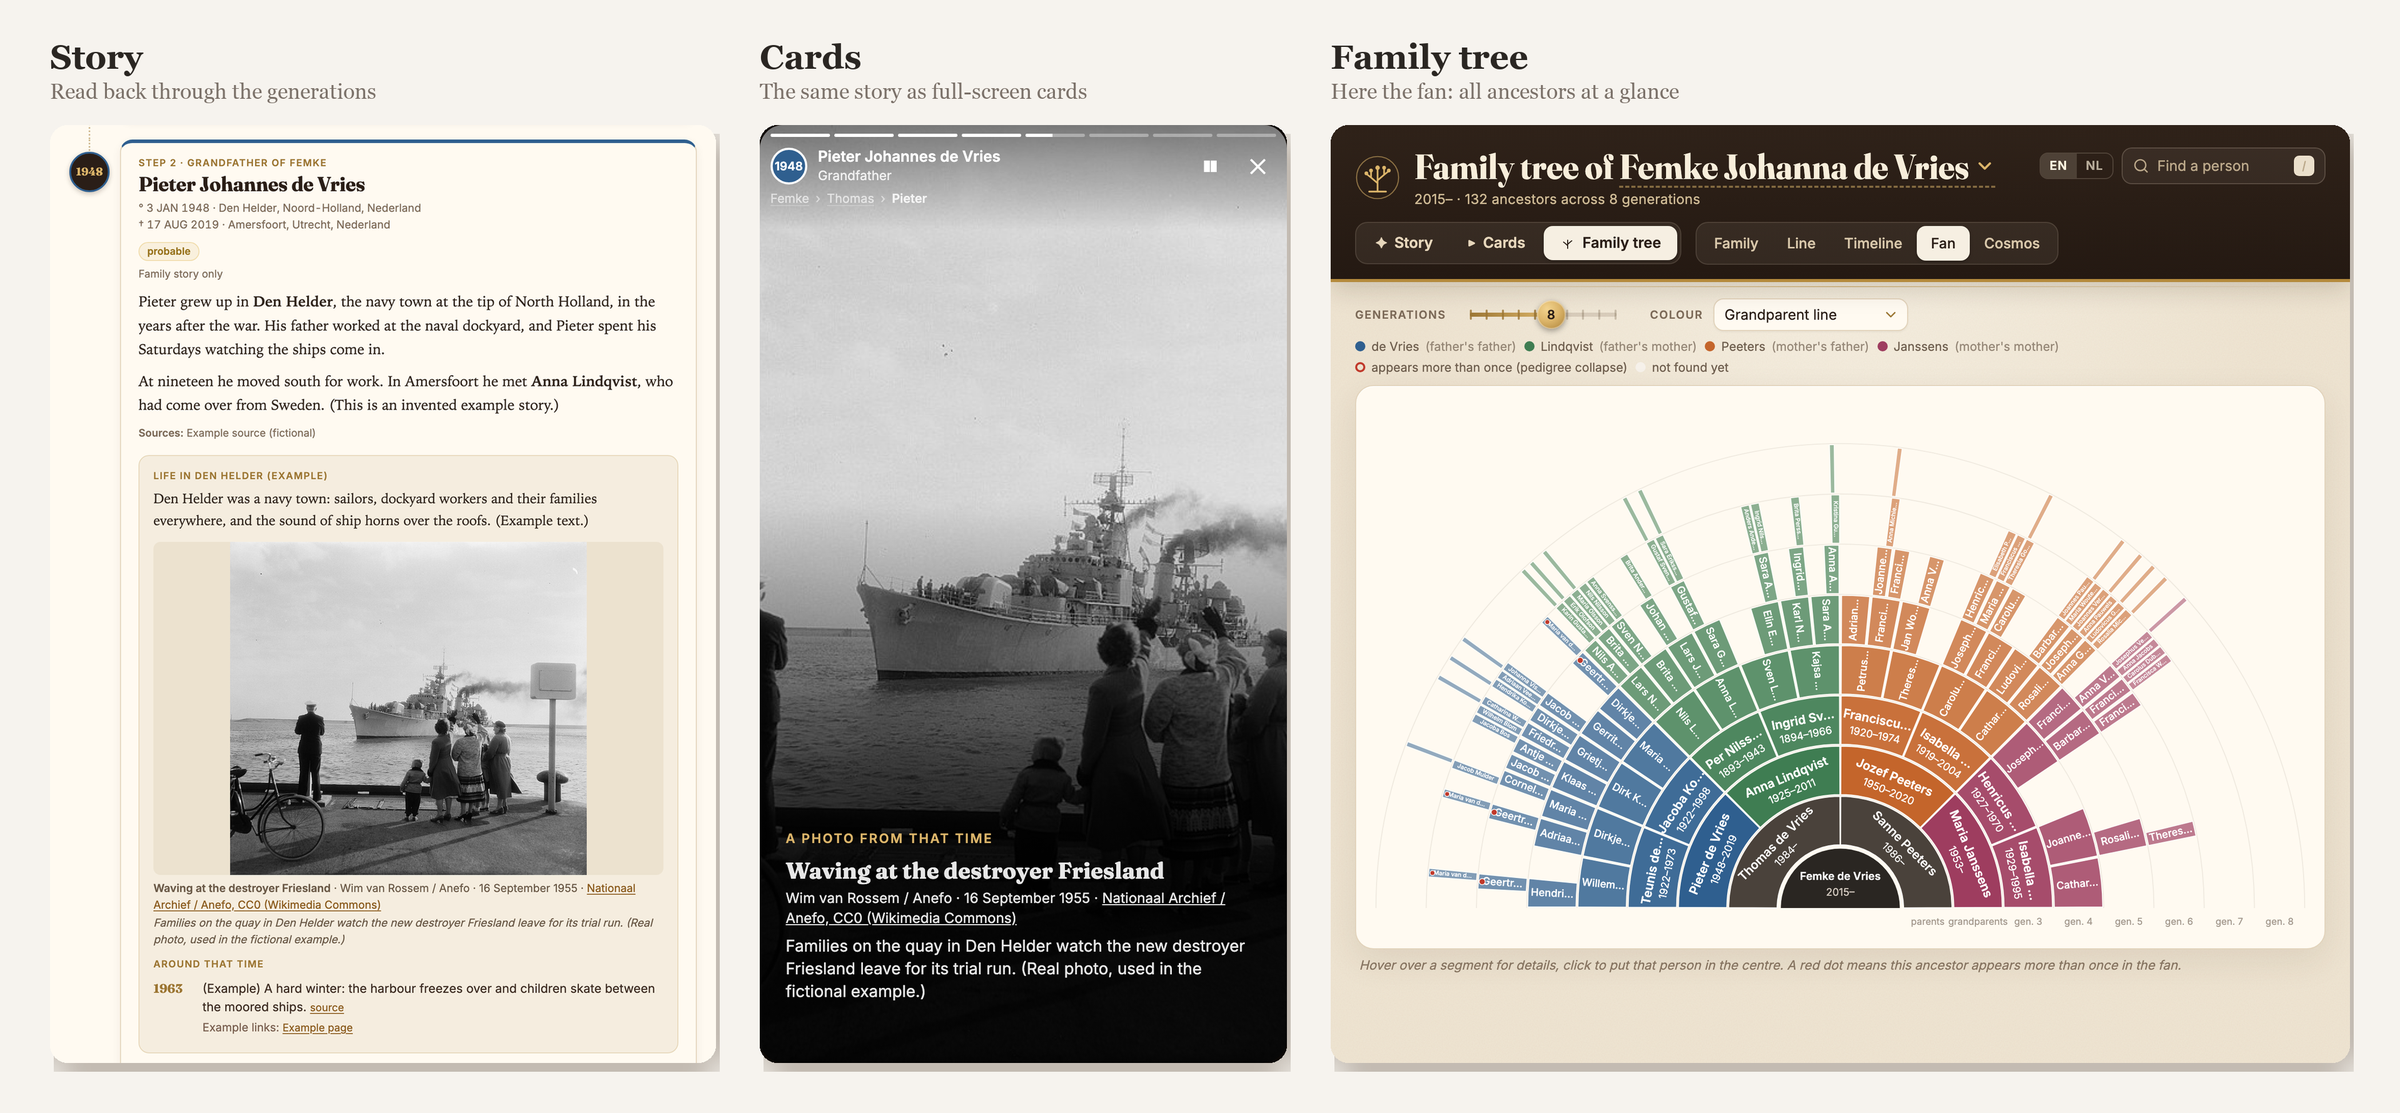
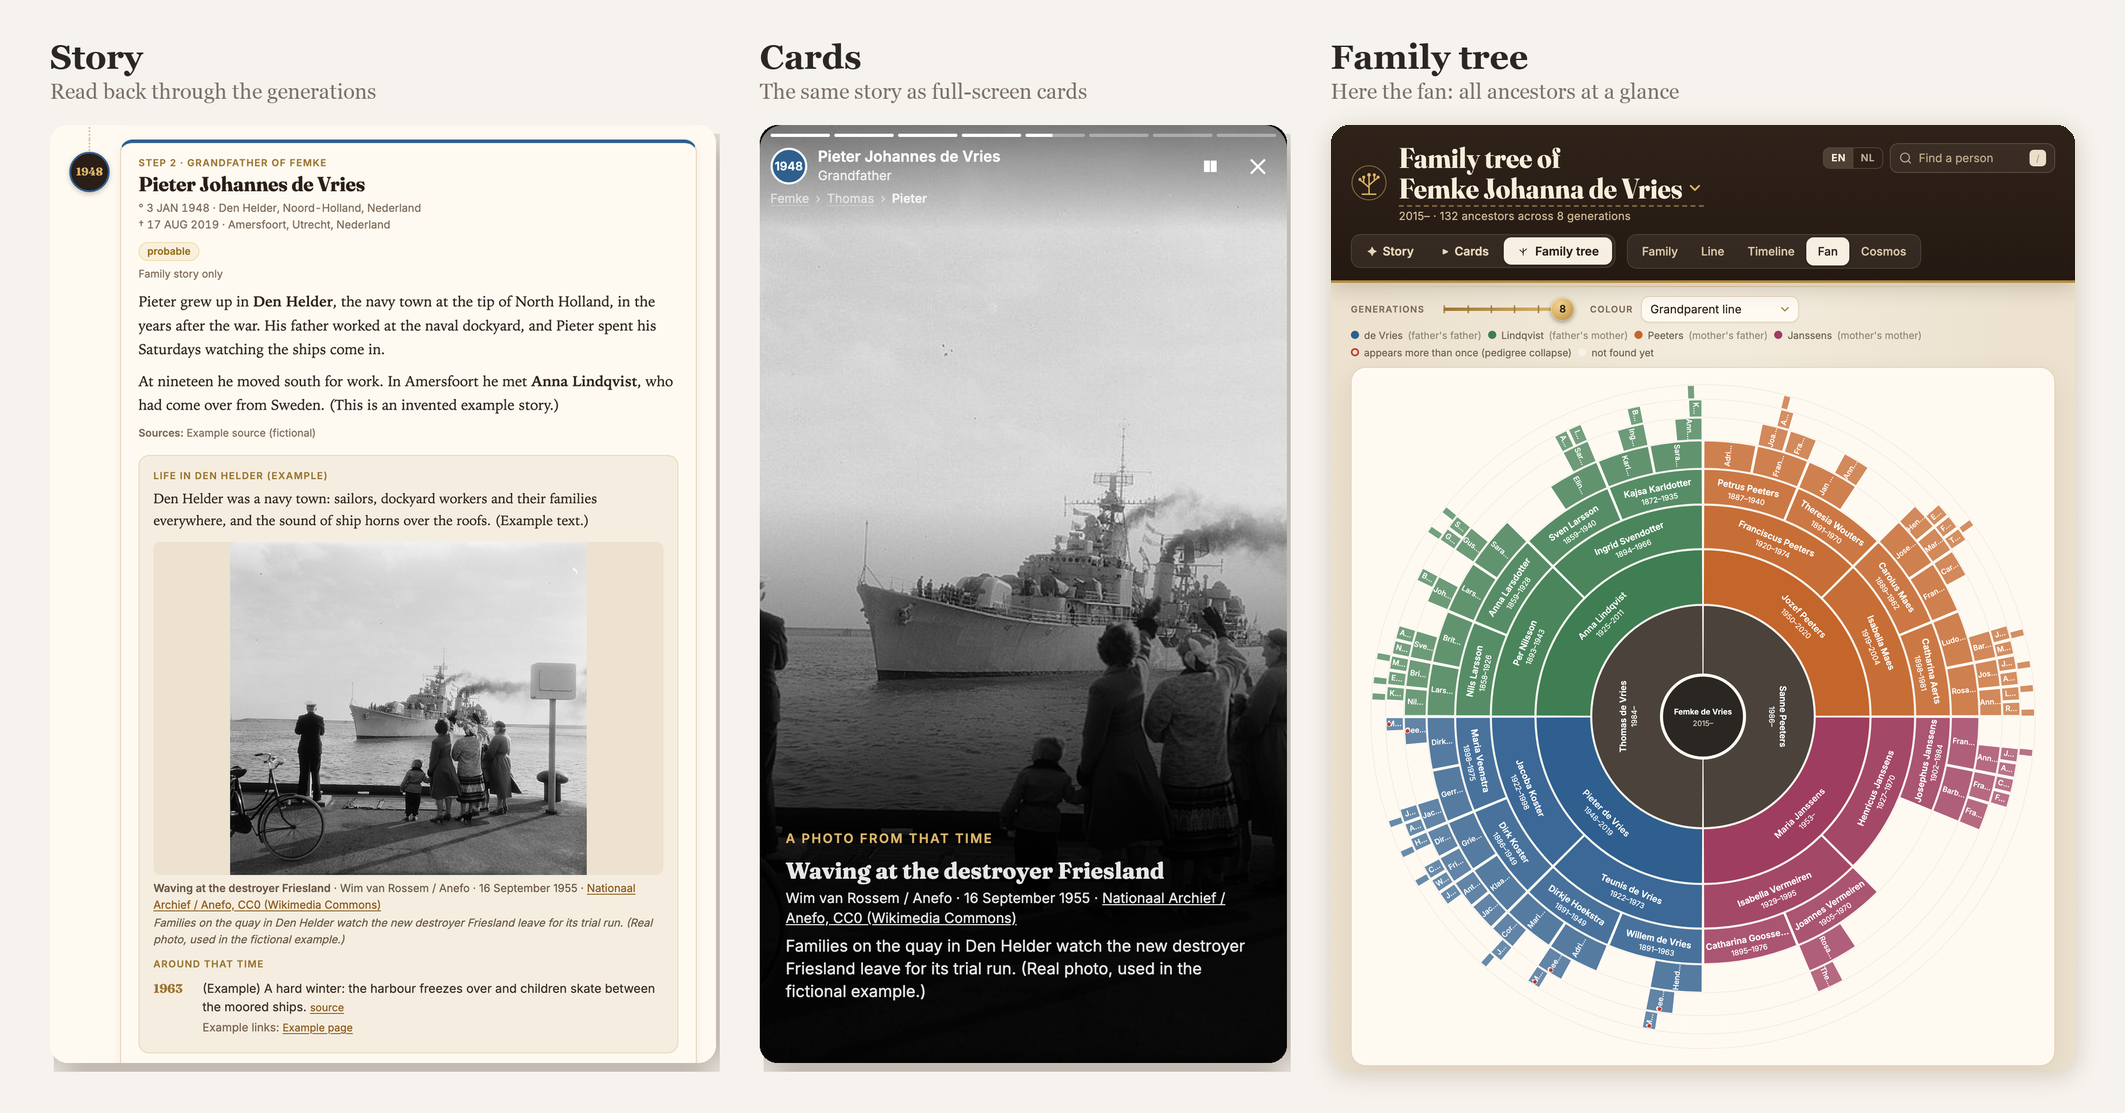
0.9.55: the Fan is round
The start person in the middle, father's side left, mother's side right;
every ring 0.8 x the one inside it; text in the lower half turned
upright; at most 82vh high. Segments are 2-3x as wide on a phone and
about 1.3-1.5x on a desktop. The half fan and its ring labels are gone.
README screenshot updated.

diff --git a/plugins/family-tree-research/skills/family-tree/viewer/index.html b/plugins/family-tree-research/skills/family-tree/viewer/index.html
@@ -343,6 +343,7 @@ main{padding-top:6px}
 .linebar .lb-x{border:1px solid #cdb78f;background:#fffaf1;color:#5b4632}.linebar .lb-x:hover{background:#fff}
 .linebar button:focus-visible{outline:2px solid #c9a04a;outline-offset:2px}
 @media (max-width:560px){.linebar{padding:10px 12px}.linebar .lb-b{width:100%}.linebar .lb-b button{flex:1;justify-content:center}}
+.fanr{display:block;margin:0 auto;max-width:100%;max-height:82vh}
 .ln-dim{opacity:.22;transition:opacity .25s}svg.ln-dim{opacity:.32}.slc.ln-dim,.fc.ln-dim{opacity:.35}
 /* kaarten */
 .fc,.slc{background:var(--paper);border-left-color:#e0d0b6;border-right-color:#e0d0b6;border-bottom-color:#e0d0b6;box-shadow:var(--shadow-card);border-radius:10px}
@@ -743,7 +744,7 @@ nl:{loading:"Stamboom laden…",loadError:"Kon de stamboom niet laden ({msg}).",
  l_vv:"vaders vader",l_vm:"vaders moeder",l_mv:"moeders vader",l_mm:"moeders moeder",unknown:"Onbekend",unknownL:"onbekend",notAssessed:"Geen beoordeling",
  cert_zeker:"Zeker",cert_waarschijnlijk:"Waarschijnlijk",cert_mogelijk:"Mogelijk",cert_onbekend:"Onbekend / niet onderzocht",cert_fout:"Fout gevonden",cert_niet:"Niet gecheckt",
  before1600:"vóór 1600",tipClick:"Klik voor meer over deze persoon",readStory:"Lees het verhaal",relChildTip:"Relatie met kind: ",occursFan:"Komt {n}× voor in deze waaier",
- fanParents:"ouders",fanGrand:"grootouders",fanGen:"{n}e gen.",lg_dup:"komt vaker voor (kwartierverlies)",lg_inlaw:"aangetrouwd",lg_missing:"nog niet gevonden",
+ lg_dup:"komt vaker voor (kwartierverlies)",lg_inlaw:"aangetrouwd",lg_missing:"nog niet gevonden",
  hint_waaier:"Beweeg over een vak voor details, klik om die persoon in het midden te zetten. Een rood stipje betekent dat deze voorouder meerdere keren in de waaier staat.",
  hint_kosmos:"Grote stippen zijn directe voorouders, kleine stippen hun andere nakomelingen (ooms, tantes, neven, nichten). Beweeg over een stip om de directe familie te zien.",
  hint_tijdlijn:"Iedereen staat op de hoogte van zijn of haar geboortejaar. Scrollen = zoomen, slepen = verplaatsen; klik op een naam voor details, het pad naar de startpersoon en de telling per generatie.",genAboveTitle:"{gens} erboven — toon ouders",
@@ -770,7 +771,7 @@ en:{loading:"Loading family tree…",loadError:"Could not load the family tree (
  l_vv:"father's father",l_vm:"father's mother",l_mv:"mother's father",l_mm:"mother's mother",unknown:"Unknown",unknownL:"unknown",notAssessed:"Not assessed",
  cert_zeker:"Certain",cert_waarschijnlijk:"Probable",cert_mogelijk:"Possible",cert_onbekend:"Unknown / not researched",cert_fout:"Error found",cert_niet:"Not checked",
  before1600:"before 1600",tipClick:"Click for more about this person",readStory:"Read the story",relChildTip:"Relation to child: ",occursFan:"Appears {n}× in this fan",
- fanParents:"parents",fanGrand:"grandparents",fanGen:"gen. {n}",lg_dup:"appears more than once (pedigree collapse)",lg_inlaw:"related by marriage",lg_missing:"not found yet",
+ lg_dup:"appears more than once (pedigree collapse)",lg_inlaw:"related by marriage",lg_missing:"not found yet",
  hint_waaier:"Hover over a segment for details, click to put that person in the centre. A red dot means this ancestor appears more than once in the fan.",
  hint_kosmos:"Large dots are direct ancestors, small dots their other descendants (uncles, aunts, cousins). Hover over a dot to see the immediate family.",
  hint_tijdlijn:"Everyone is placed at the height of their birth year. Scroll to zoom, drag to move; click a name for details, the path to the start person and counts per generation.",genAboveTitle:"{gens} above — show parents",
@@ -790,7 +791,7 @@ en:{loading:"Loading family tree…",loadError:"Could not load the family tree (
  notFound:"Not found yet",emptyTitle:"Not found yet",emptyBody:"No parents have been found for {name} yet. Once parents are in the tree, there is more to see here.",emptyPeople:"This tree has no people yet."}};
 let LANG="en";
 /* plugin version, shown in the footer; bump together with plugin.json and SKILL.md (see CLAUDE.md, "Releasing") */
-const PLUGIN_VERSION="0.9.54",PLUGIN_URL="https://github.com/chriswaalberg/family-tree-research";
+const PLUGIN_VERSION="0.9.55",PLUGIN_URL="https://github.com/chriswaalberg/family-tree-research";
 function _t(k,v){let s=(I18N[LANG]&&I18N[LANG][k]!=null)?I18N[LANG][k]:(I18N.nl[k]!=null?I18N.nl[k]:k);if(v)for(const x in v)s=s.split("{"+x+"}").join(v[x]);return s}
 function lab(x){if(x==null)return"";if(typeof x==="string")return x;return x[LANG]||x.nl||x.en||Object.values(x)[0]||""}
 const GEN_NL=["","Ouders","Grootouders","Overgrootouders","Betovergrootouders","Oudouders","Oudgrootouders","Oudovergrootouders","Oudbetovergrootouders","Stamouders","Stamgrootouders","Stamovergrootouders","Stambetovergrootouders","Edelouders","Edelgrootouders","Edelovergrootouders","Edelbetovergrootouders"];
@@ -898,8 +899,11 @@ function drawFan(){
   const G=Math.max(2,Math.min(state.gens,depthOf(root,0)+1));
   /* the Story line goes on past the slider's generations (only the line); GR = rings drawn */
   const GR=LN?Math.max(G,LN.path.length-1):G,lnPts=[];
-  const W=1000,cx=500,cy=540,r0=66,Rmax=492,ring=(Rmax-r0)/GR;
-  const svg=el("svg",{viewBox:`0 0 ${W} 570`});
+  /* a round fan: the start person in the middle, father's side left, mother's side right; every ring 0.8 × the one inside it,
+     so the inner generations (the names you read most) get the most room and deep ones still fit */
+  const cx=500,cy=500,r0=62,Rmax=490,Q=.8,w0=(Rmax-r0)*(1-Q)/(1-Math.pow(Q,GR));
+  const RI=g=>r0+w0*(1-Math.pow(Q,g-1))/(1-Q),RO=g=>RI(g)+w0*Math.pow(Q,g-1);
+  const svg=el("svg",{viewBox:"0 0 1000 1000",class:"fanr"});
   const AD=adoptSet(root);if(AD.size){const df=el("defs",{},svg),pt=el("pattern",{id:"adoptHatch",width:7,height:7,patternUnits:"userSpaceOnUse",patternTransform:"rotate(45)"},df);el("rect",{width:7,height:7,fill:"rgba(255,250,241,.18)"},pt);el("line",{x1:0,y1:0,x2:0,y2:7,stroke:"#fffaf1","stroke-width":2.2,"stroke-opacity":.55},pt)}
   const stats=ancestorStats(root);
   // count occurrences within G gens
@@ -914,12 +918,12 @@ function drawFan(){
     if(mode==="zekerheid"){if(child==null)return"#4a423b";const c=certOf(child,i);return c?(CERT[c[0]]||NONE):NONE}
   }
   function seg(i,g,a0,a1,slot,child){
-    const ri=r0+(g-1)*ring,ro=ri+ring,s0=gSeg.childNodes.length,t0=gTxt.childNodes.length;
+    const ri=RI(g),ro=RO(g),rw=ro-ri,s0=gSeg.childNodes.length,t0=gTxt.childNodes.length;
     if(g===0){
-      const rr=r0-3;const c=el("path",{d:`M${cx-rr},${cy}A${rr},${rr} 0 0 1 ${cx+rr},${cy}Z`,fill:"#2a2622",class:"seg"},gSeg);
+      const c=el("circle",{cx,cy,r:r0-3,fill:"#2a2622",class:"seg"},gSeg);
       hook(c,i,null);
-      const t=el("text",{x:cx,y:cy-30,"text-anchor":"middle",fill:"#fff","font-size":11.5,"font-weight":600},gTxt);t.textContent=short(P[i]);
-      const t2=el("text",{x:cx,y:cy-13,"text-anchor":"middle",fill:"#cfc6bc","font-size":11},gTxt);t2.textContent=yrs(P[i]);
+      const t=el("text",{x:cx,y:cy-3,"text-anchor":"middle",fill:"#fff","font-size":11.5,"font-weight":600},gTxt);t.textContent=short(P[i]);
+      const t2=el("text",{x:cx,y:cy+14,"text-anchor":"middle",fill:"#cfc6bc","font-size":11},gTxt);t2.textContent=yrs(P[i]);
     }else{
       const pad=Math.min(0.004,(a1-a0)*0.08);const b0=a0+pad,b1=a1-pad;
       const [x0,y0]=pol(b0,ri+1),[x1,y1]=pol(b1,ri+1),[x2,y2]=pol(b1,ro-1),[x3,y3]=pol(b0,ro-1);
@@ -935,16 +939,17 @@ function drawFan(){
       // labels
       const am=(a0+a1)/2,rm=(ri+ro)/2,arc=rm*(a1-a0);if(LN&&LN.pre.has(slot))lnPts.push({am,rm,arc,g});
       const light=isLight(col);const tc=light?"#2a2622":"#fff";
-      if(arc>78&&ring>30){
-        const fs=Math.min(13,ring/3.4);const maxc=Math.floor(arc/(fs*0.58));
-        const rot=am*180/Math.PI+90;
+      const fl=Math.sin(am)>0.05; /* lower half: turn the text so it never stands on its head */
+      if(arc>78&&rw>30){
+        const fs=Math.min(13,rw/3.4);const maxc=Math.floor(arc/(fs*0.58));
+        const rot=am*180/Math.PI+90+(fl?180:0);
         [[short(P[i]),-fs*0.25,600],[yrs(P[i]),fs*1.0,400]].forEach(([s,dy,w])=>{
-          const [tx,ty]=pol(am,rm-dy);
+          const [tx,ty]=pol(am,rm-(fl?-dy:dy));
           const t=el("text",{x:tx,y:ty,"text-anchor":"middle","dominant-baseline":"middle",transform:`rotate(${rot} ${tx} ${ty})`,fill:tc,"font-size":w===600?fs:fs*0.85,"font-weight":w},gTxt);
           t.textContent=s.length>maxc?s.slice(0,maxc-1)+"…":s;});
-      }else if(arc>7.5&&ring>26){
-        const fs=Math.min(11,arc*0.62);const maxc=Math.floor((ring-8)/(fs*0.58));
-        let deg=am*180/Math.PI;const flip=am<1.5*Math.PI;if(flip)deg+=180;
+      }else if(arc>7.5&&rw>26){
+        const fs=Math.min(11,arc*0.62);const maxc=Math.floor((rw-8)/(fs*0.58));
+        let deg=am*180/Math.PI;const flip=Math.cos(am)<0;if(flip)deg+=180;
         const [tx,ty]=pol(am,rm);
         const s=short(P[i]);
         const t=el("text",{x:tx,y:ty,"text-anchor":"middle","dominant-baseline":"middle",transform:`rotate(${deg} ${tx} ${ty})`,fill:tc,"font-size":fs,"font-weight":500},gTxt);
@@ -959,15 +964,13 @@ function drawFan(){
     if(p.m>=0){if(on("m"))seg(p.m,g+1,mid,a1,slot+"m",i)}else if(g+1<=3)ghost(g+1,mid,a1);
   }
   // empty guide rings
-  for(let g=1;g<=GR;g++){const ri=r0+(g-1)*ring,ro=ri+ring;const [x0,y0]=pol(Math.PI,ro),[x1,y1]=pol(2*Math.PI,ro);
-    el("path",{d:`M${x0},${y0}A${ro},${ro} 0 0 1 ${x1},${y1}`,fill:"none",stroke:"#efe9df"},gSeg);
-    const t=el("text",{x:cx+ri+ring/2,y:cy+18,"text-anchor":"middle",fill:"#a59a8f","font-size":10},svg);t.textContent=g===1?_t("fanParents"):g===2?_t("fanGrand"):_t("fanGen",{n:g});}
-  seg(root,0,Math.PI,2*Math.PI,"",null);
+  for(let g=1;g<=GR;g++)el("circle",{cx,cy,r:RO(g),fill:"none",stroke:"#efe9df"},gSeg);
+  seg(root,0,Math.PI/2,Math.PI*2.5,"",null); /* father: from the bottom via the left to the top; mother: the right half */
   /* deep in the fan the line's slices get thinner than a pixel: a thin line with dots through them, from the last slice you can still see */
   {lnPts.sort((a,b)=>a.g-b.g);const k=lnPts.findIndex(q=>q.arc<14);if(k>=0){const pts=lnPts.slice(Math.max(0,k-1)).map(q=>pol(q.am,q.rm));
     el("polyline",{points:pts.map(q=>q.join(",")).join(" "),fill:"none",stroke:"#2a2622","stroke-width":1.6,"stroke-linejoin":"round",opacity:.85},gTxt);
     pts.slice(1).forEach(([x,y])=>el("circle",{cx:x,cy:y,r:2.6,fill:"#2a2622",stroke:"#fffdf9","stroke-width":1},gTxt))}}
-  function ghost(g,a0,a1){const ri=r0+(g-1)*ring,ro=ri+ring,pad=Math.min(0.004,(a1-a0)*0.08),b0=a0+pad,b1=a1-pad;
+  function ghost(g,a0,a1){const ri=RI(g),ro=RO(g),ring=ro-ri,pad=Math.min(0.004,(a1-a0)*0.08),b0=a0+pad,b1=a1-pad;
     const [x0,y0]=pol(b0,ri+1),[x1,y1]=pol(b1,ri+1),[x2,y2]=pol(b1,ro-1),[x3,y3]=pol(b0,ro-1);
     el("path",{d:`M${x0},${y0}A${ri+1},${ri+1} 0 0 1 ${x1},${y1}L${x2},${y2}A${ro-1},${ro-1} 0 0 0 ${x3},${y3}Z`,fill:"#f6f1ea",stroke:"#d9cfc2","stroke-dasharray":"3 3"},gSeg);
     const am=(a0+a1)/2,rm=(ri+ro)/2,arc=rm*(a1-a0);if(arc>70&&ring>26){const [tx,ty]=pol(am,rm);const tt=el("text",{x:tx,y:ty,"text-anchor":"middle","dominant-baseline":"middle",transform:`rotate(${am*180/Math.PI+90} ${tx} ${ty})`,fill:"#b3a89c","font-size":Math.min(12,ring/3.4)},gTxt);tt.textContent=_t("notFound")}}

diff --git a/CHANGELOG.md b/CHANGELOG.md
@@ -2,6 +2,8 @@
 
 One line per version from 0.9.38 on; older versions are in the git history (`git log --oneline`).
 
+- **0.9.55** — The Fan is round: the start person in the middle, father's side left, mother's side right, every ring 0.8 × the one inside it, text in the lower half turned upright. On a phone the segments are two to three times as wide as in the half fan, on a desktop about 1.3 to 1.5 times. The README screenshot shows the round fan.
+- **0.9.48–0.9.54** — Research tools from another session: `archives.py` (open archives without a browser, OA scans), rebuilding the tree from the original plus round files with fixed ids, stricter evidence rules; see `git log`.
 - **0.9.47** — The generations slider goes as far as the start person's tree is deep (no fixed 12/14 any more), for Fan, Cosmos and Timeline. Fix: with the line off, an empty bar stood above every tree view since 0.9.43.
 - **0.9.46** — The Story line is shown whole in every tree view, also when it is longer than the generations slider allows (Timeline 14, Fan/Cosmos 12): past the slider only the line goes on. In Fan a thin line with dots follows the line where its slices get thinner than a pixel; Timeline zooms and scrolls so the whole line fits.
 - **0.9.45** — A person's portrait stands as a polaroid at the top right of their block in Story (square corners, wide white bottom with the photo's title, a slight tilt; above the name on phones); other photos and documents stay small. Which photo: `_PRIM Y` in the GEDCOM (from Ancestry/FTM/RootsMagic, or the new `portrait` column of media.csv via `gedcom_tool.py media`), else the first photo. Cards uses the same portrait.

diff --git a/CLAUDE.md b/CLAUDE.md
@@ -74,7 +74,7 @@ The viewer is one file (~1,700 lines, CSS + HTML + JS). Find your way by these m
 
 - `/* ===== TEKSTEN (NL / EN) ===== */` → `const I18N = {nl:{…}, en:{…}}`. More keys are added later with `Object.assign(I18N.nl,…)` / `Object.assign(I18N.en,…)` (Story texts: `vh_*`, events `e_*`). Every user-visible string lives here, in both languages.
 - `function certOf`, `isAdopt`, `hasAdopt`, `adoptSet`: certainty of a parent link and raised/adopted/foster lines (gold double line, hatching, "family by adoption"). On the parent's card and sheet the label is `vh_adopt_par` ("nam {child} aan als eigen kind"), never `vh_adopt`.
-- `/* ===== WAAIER` (Fan), `KOSMOS` (Cosmos), `TIJDLIJN` (Timeline), `STAMLIJN` (Line), `function drawFamilie` (Family).
+- `/* ===== WAAIER` (Fan, round: `seg(root,0,π/2,5π/2)`, father's side left; ring g runs from `RI(g)` to `RO(g)`, each ring 0.8 × the one inside it; text in the lower half is turned (`fl`); `svg.fanr` is at most 82vh high), `KOSMOS` (Cosmos), `TIJDLIJN` (Timeline), `STAMLIJN` (Line), `function drawFamilie` (Family).
 - `/* ===== VERHAAL` (Story view):
   - `vhRich`, `vhBest`, `vhDepth`, `vhStories`: scoring of the "richest trail" (gold star).
   - `vhYMD`, `vhAge`: exact ages from GEDCOM dates; "about" only when a date is estimated.

diff --git a/plugins/family-tree-research/skills/family-tree/SKILL.md b/plugins/family-tree-research/skills/family-tree/SKILL.md
@@ -11,7 +11,7 @@ description: >
   researches ancestors in open archives with a source for every link, and
   publishes an interactive family-tree viewer. Works in English and Dutch.
 metadata:
-  version: "0.9.54"
+  version: "0.9.55"
 ---
 
 # Family-tree research, hand in hand
